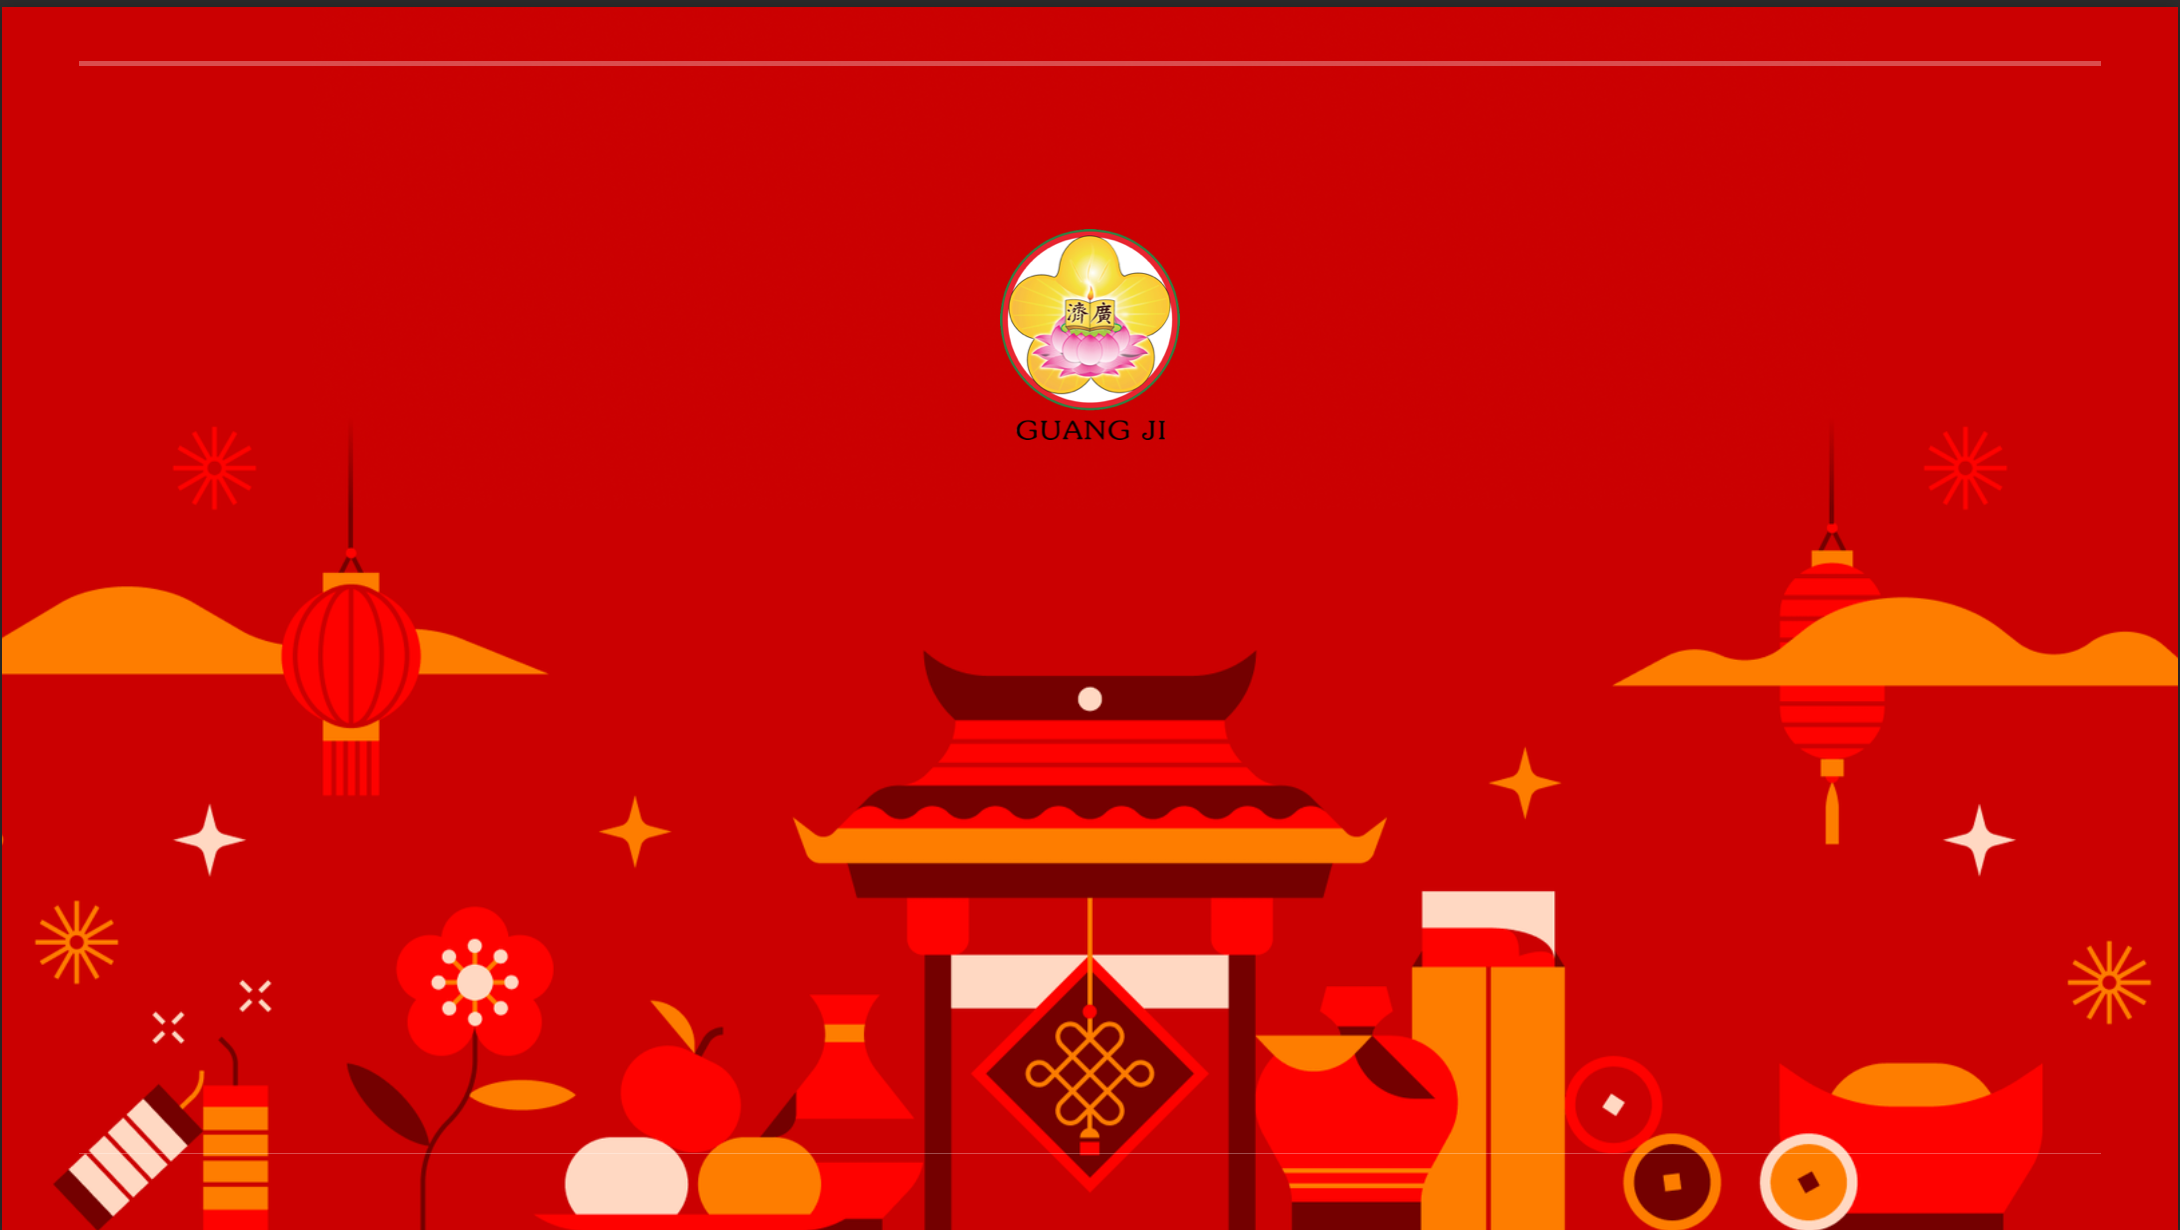
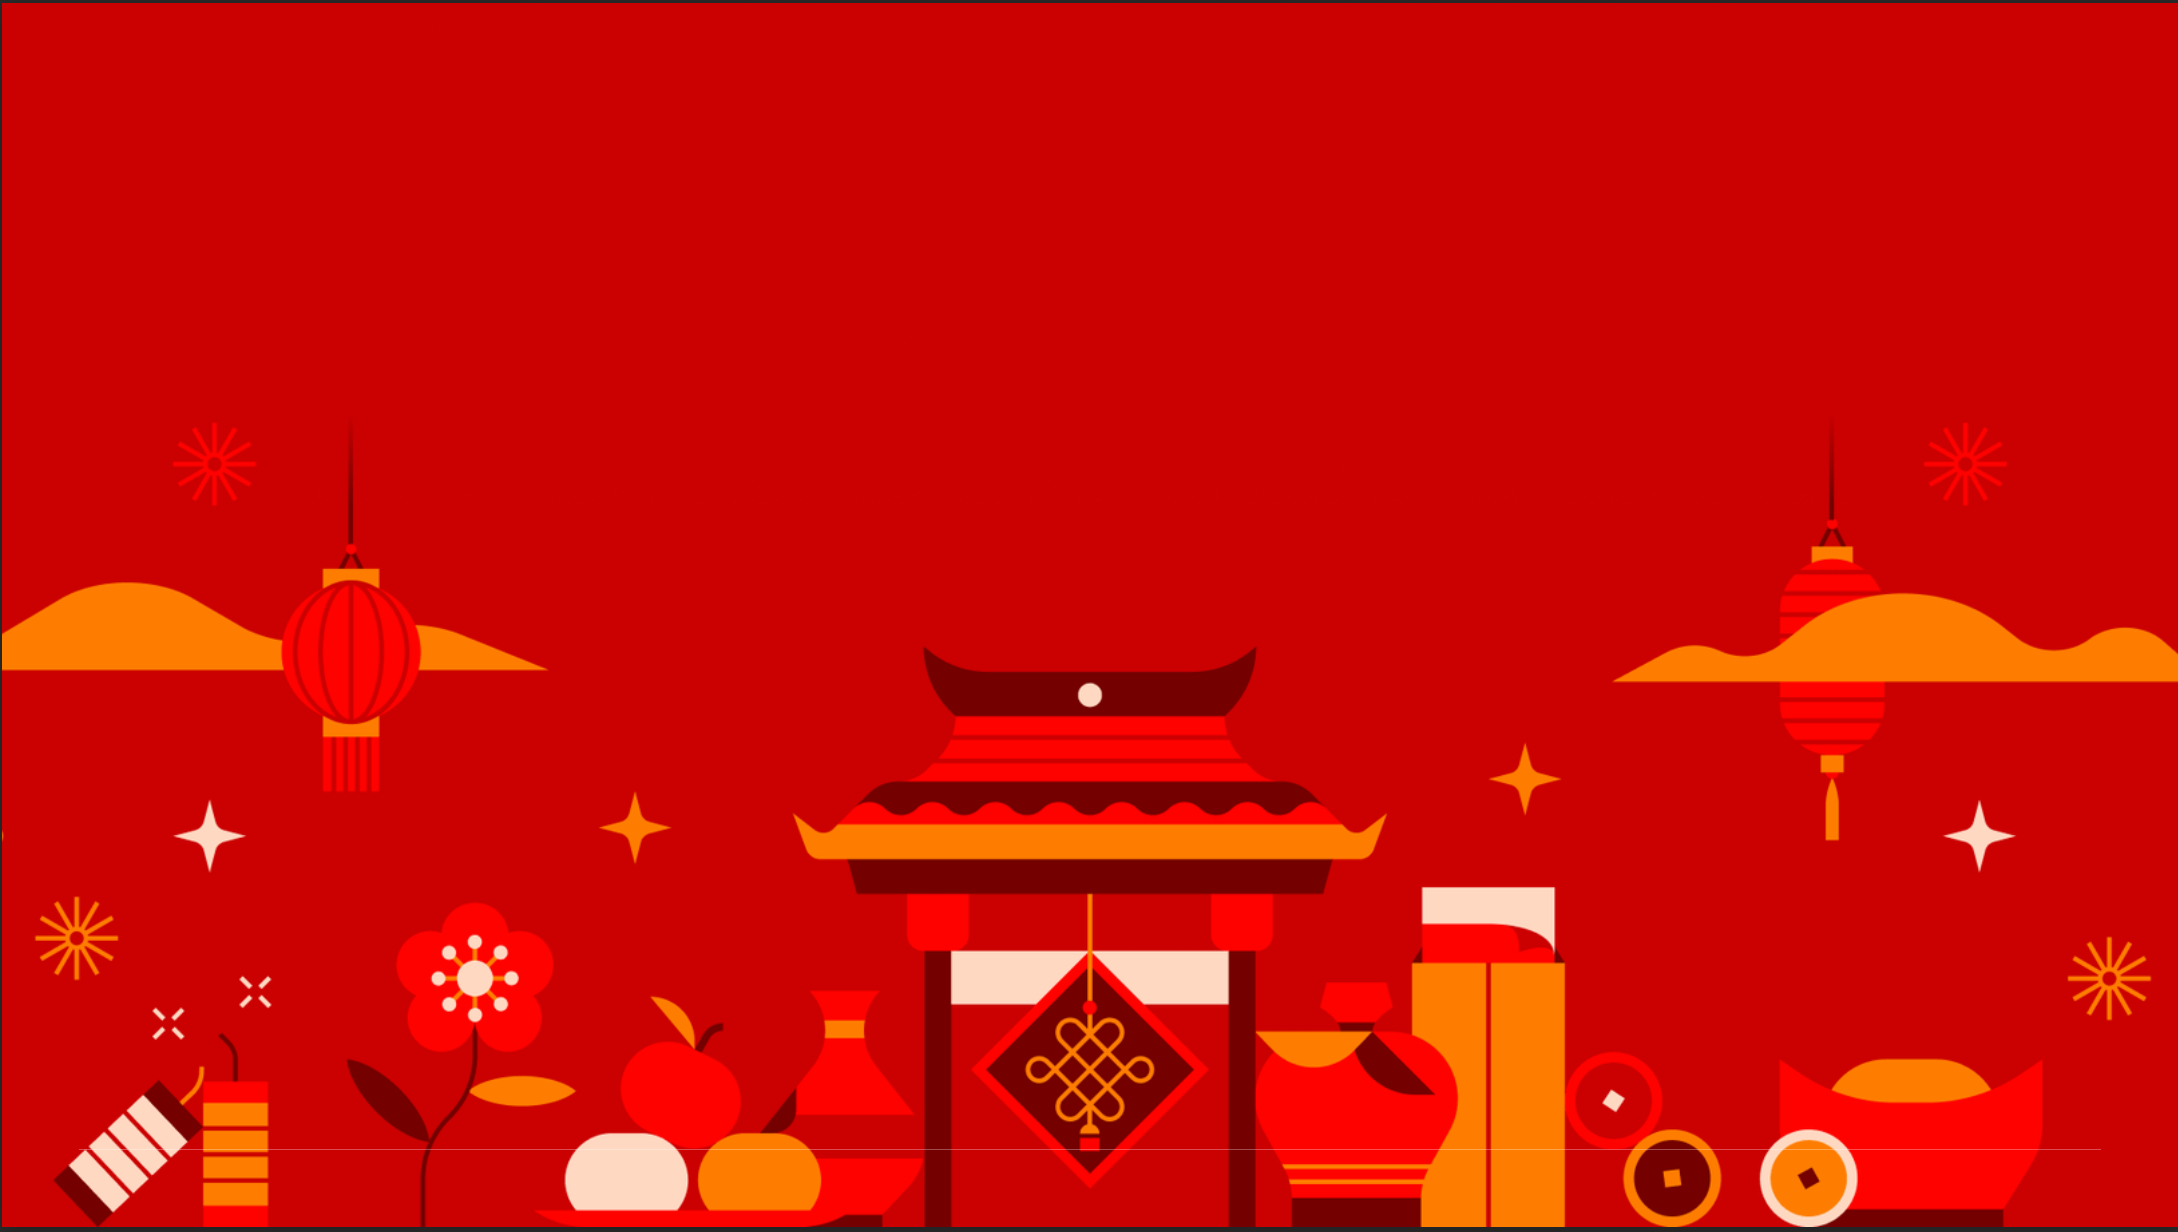
add fav ico, back and download button, update styling and BG

diff --git a/html/angpao.html b/html/angpao.html
@@ -1,41 +1,32 @@
 <link rel="stylesheet" type="text/css" href="assets/css/card.css">
 
-<div class="slider-content" style="display: table;">
-	<div class="image_wrapper" style="
-    	display: table-cell;
-    	vertical-align: middle;
-	">
-
+<div class="slider-content" style="text-align: center;display: table;">
+	<div class="cover-wrap" style="text-align: center;display: table-cell;vertical-align: top;">
+		<div class="guangji-header" style=""></div>
 		<img id="wejangan" class="img_click" src="assets/image/cover/angpao.png" style="width: 100%;">
+		<button title="mulai" class="btn-start img_click" style="border-radius: 16px;background: rgba(0,0,0,0.1);margin-bottom: 9.549071618037136vh;position: unset;transform: unset;margin-top: 4vh;background:#1d8bec;">Download</button>
+		<button class="btn-start back_home" style="border-radius: 16px;background: rgba(0,0,0,0.1);margin-bottom: 9.549071618037136vh;position: unset;transform: unset;margin-top: 4vh;background:darkred;">Kembali</button>
 	</div>
 </div>
 
 <script>
     let rand_que =Math.floor(Math.random() * 120) + 1
-
     let url = game.base_url+"/assets/image/wejangan/png/"+rand_que+".png";
 
     $(document).ready(function(){
+        console.log(game.name);
         $("#wejangan").attr("src", url);
+        $(".img_click").click(function(){
+            console.log(url);
+            var link = document.createElement('a');
+            link.href = url;
+            link.target = '_blank';
+            link.download = 'wejangan.png';
+            document.body.appendChild(link);
+            link.click();
+            document.body.removeChild(link);
+            // }
+        });
 	});
 
-	$(".img_click").click(function(){
-
-	    console.log(url);
-	    // try{
-	    // 	console.log("test");
-	    //     // window.open(url, '_blank');
-	    // }catch(e){
-	        var link = document.createElement('a');
-	        link.href = url;
-	        link.target = '_blank';
-	        link.download = 'wejangan.png';
-
-	        document.body.appendChild(link);
-
-	        link.click();
-
-	        document.body.removeChild(link);
-	    // }
-	});
 </script>

diff --git a/html/cover.html b/html/cover.html
@@ -1,13 +1,14 @@
 <div id="cover" class="slider-content" style="background: url('');background-size: cover;background-repeat: no-repeat;background-position: center;">
     <div style="/*display: table;*/position: absolute;top: 0;left: 0;height: 100%;padding: 0; overflow: hidden;padding: 3.183023872679045vh;" class="wrap">
         <div class="content-cover-wrap" style="display: table;width: 100%;">
-            <div class="cover-wrap" style="text-align: center;display: table-cell;vertical-align: middle;">
+            <div class="cover-wrap" style="text-align: center;display: table-cell;vertical-align: top;">
+                <div class="guangji-header" style=""></div>
                 <div class="title-module" style="color: black;">
                     
                 </div>
-                <input class="form-control name" type="text" style="width: 100%;">
+                <input class="form-control name" type="text" style="width: 100%;"/>
 
-                <button title="mulai" class="btn-start next_page" style="border-radius: 16px;background: rgba(0,0,0,0.1);margin-bottom: 9.549071618037136vh;position: unset;transform: unset;margin-top: 4vh;background:#1d8bec;">SUBMIT</button>
+                <button title="mulai" class="btn-start next_page" style="border-radius: 16px;background: rgba(0,0,0,0.1);margin-bottom: 9.549071618037136vh;position: unset;transform: unset;margin-top: 4vh;background:#1d8bec;">Ambil Angpao</button>
             </div>  
         </div>
     </div>

diff --git a/index.html b/index.html
@@ -2,6 +2,7 @@
 <html>
 <head>
     <meta charset="utf-8">
+    <link rel="icon" href="/assets/image/cover/logo-gj.png" type="image/png" sizes="16x16">
     <meta name="viewport" content="width=device-width, initial-scale=1">
     <!-- JQUERY MOBILE -->
     <link rel="stylesheet" href="assets/css/jquery.mobile-1.4.5.min.css">
@@ -231,13 +232,14 @@
         /*End CSS popupListFullScreen*/
     </style>
 </head>
-<body id="body" class="noselect">
+<body id="body" class="noselect" style="background-image: url('assets/image/cover/imlek.png');background-position: center; background-size: cover ">
     <div class="alert"></div>
     <div class="body-wrapper">
         <main class="container">
 
             <!-- CONTENT SECTION -->
-            <div id="content" style="background-image: url('assets/image/cover/imlek.png');background-position: center; display: cover;"></div>
+
+            <div id="content" ></div>
         </main> 
     </div>
 
@@ -318,7 +320,6 @@
 
     <script type="text/javascript">
     var game;
-    var sliderTutorial;
     $(document).ready(function(){
         game = new Game();
     });

diff --git a/assets/js/game.js b/assets/js/game.js
@@ -10,8 +10,8 @@ var Game = function(){
 	this.life_max = 5;
 	this.game_data = {};
 	// this.base_url = "http://localhost:8012/project_angpao_wejangan";
-    // this.base_url = "http://angpao.test";
-    this.base_url = "https://angpao-wejangan.vercel.app";
+    this.base_url = "http://angpao.test";
+    // this.base_url = "https://angpao-wejangan.vercel.app";
 	this.name;
 
 	$.get("config/templete_content.json",function(e){
@@ -62,14 +62,21 @@ Game.prototype.create_slide = function() {
 					alert("Harap isi nama anda!");
 				}else{
 					game.name = val;
+                    console.log($this);
 					$this.nextSlide();
 				}
 			});
 
 			$(".prev_page").click(function(e){
+				console.log(e);
+				console.log($this);
 				$this.audio.audioButton.play();
 				$this.prevSlide();
 			});
+            $(".back_home").click(function(e){
+                $this.audio.audioButton.play();
+                $this.setSlide(0);
+            });
 		});
 	}
 };

diff --git a/assets/css/style.css b/assets/css/style.css
@@ -150,10 +150,19 @@
 	/*display: table-cell;*/
 	position: relative;
 	/*top: 46vh;*/
-	border: 1px solid #FFF;
+	/*border: 1px solid #FFF;*/
     /*background: rgba(0,0,0,0.5);*/
 }
 
+.guangji-header{
+	background: url('/assets/image/cover/logo-gj.png');
+	background-repeat: no-repeat;
+	background-position: center;
+	margin-bottom: 20px;
+	background-size: contain;
+	height: 200px;
+
+}
 /*@media only screen and (orientation: landscape) {
 	#content .content-cover-wrap{
 		top: 46vh;
